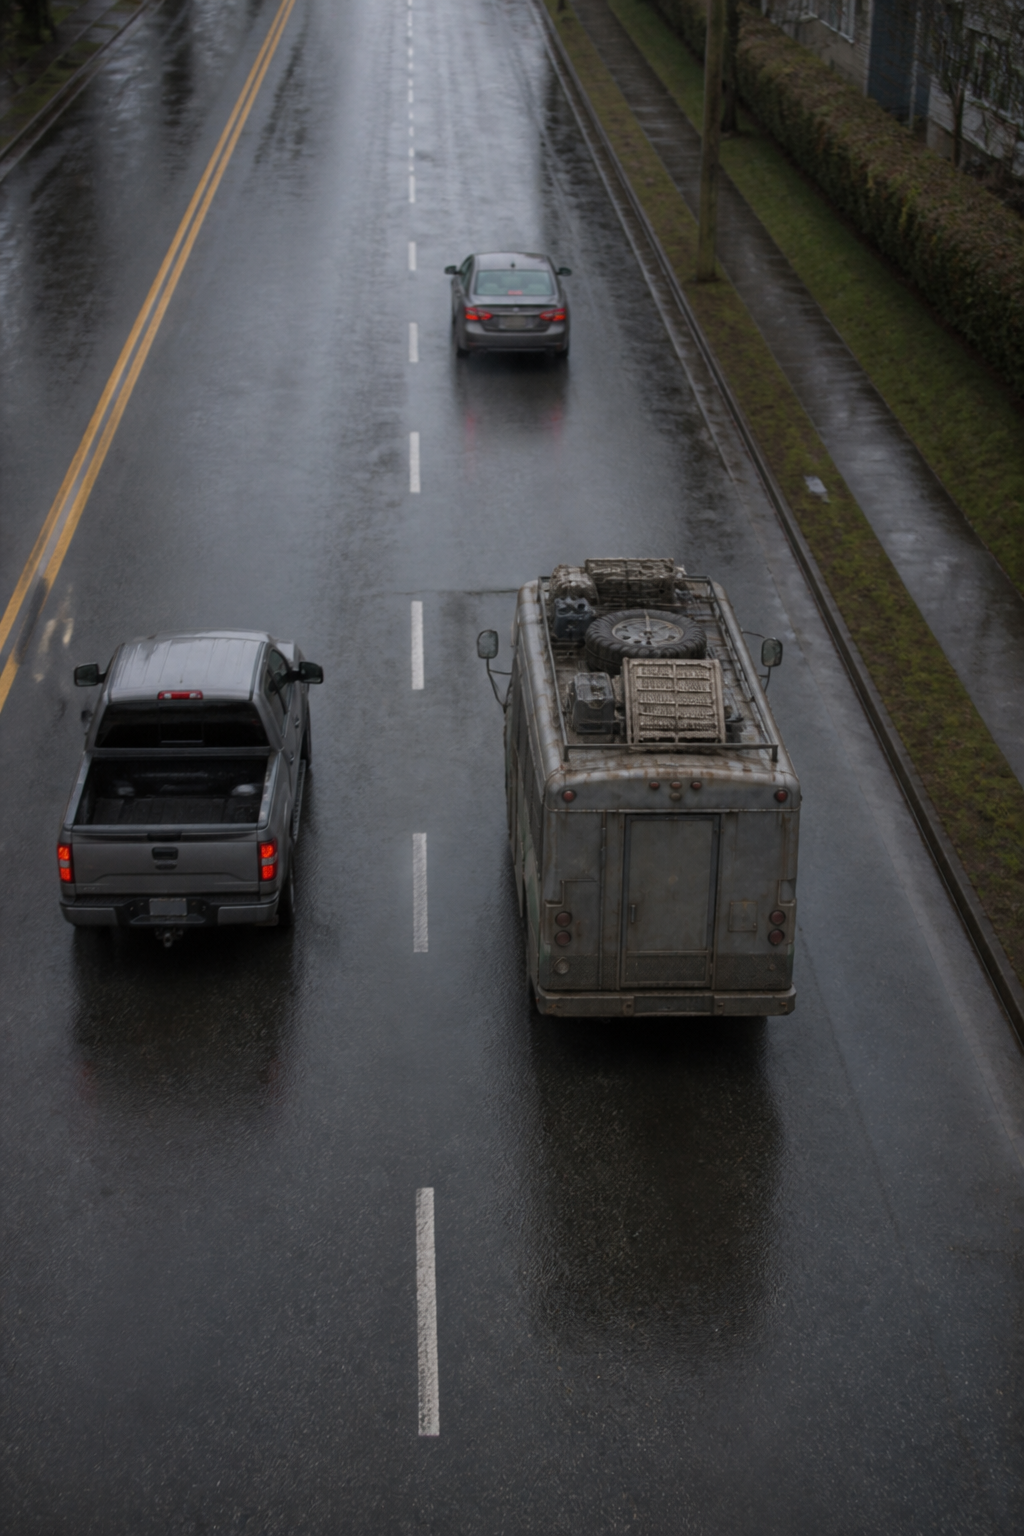
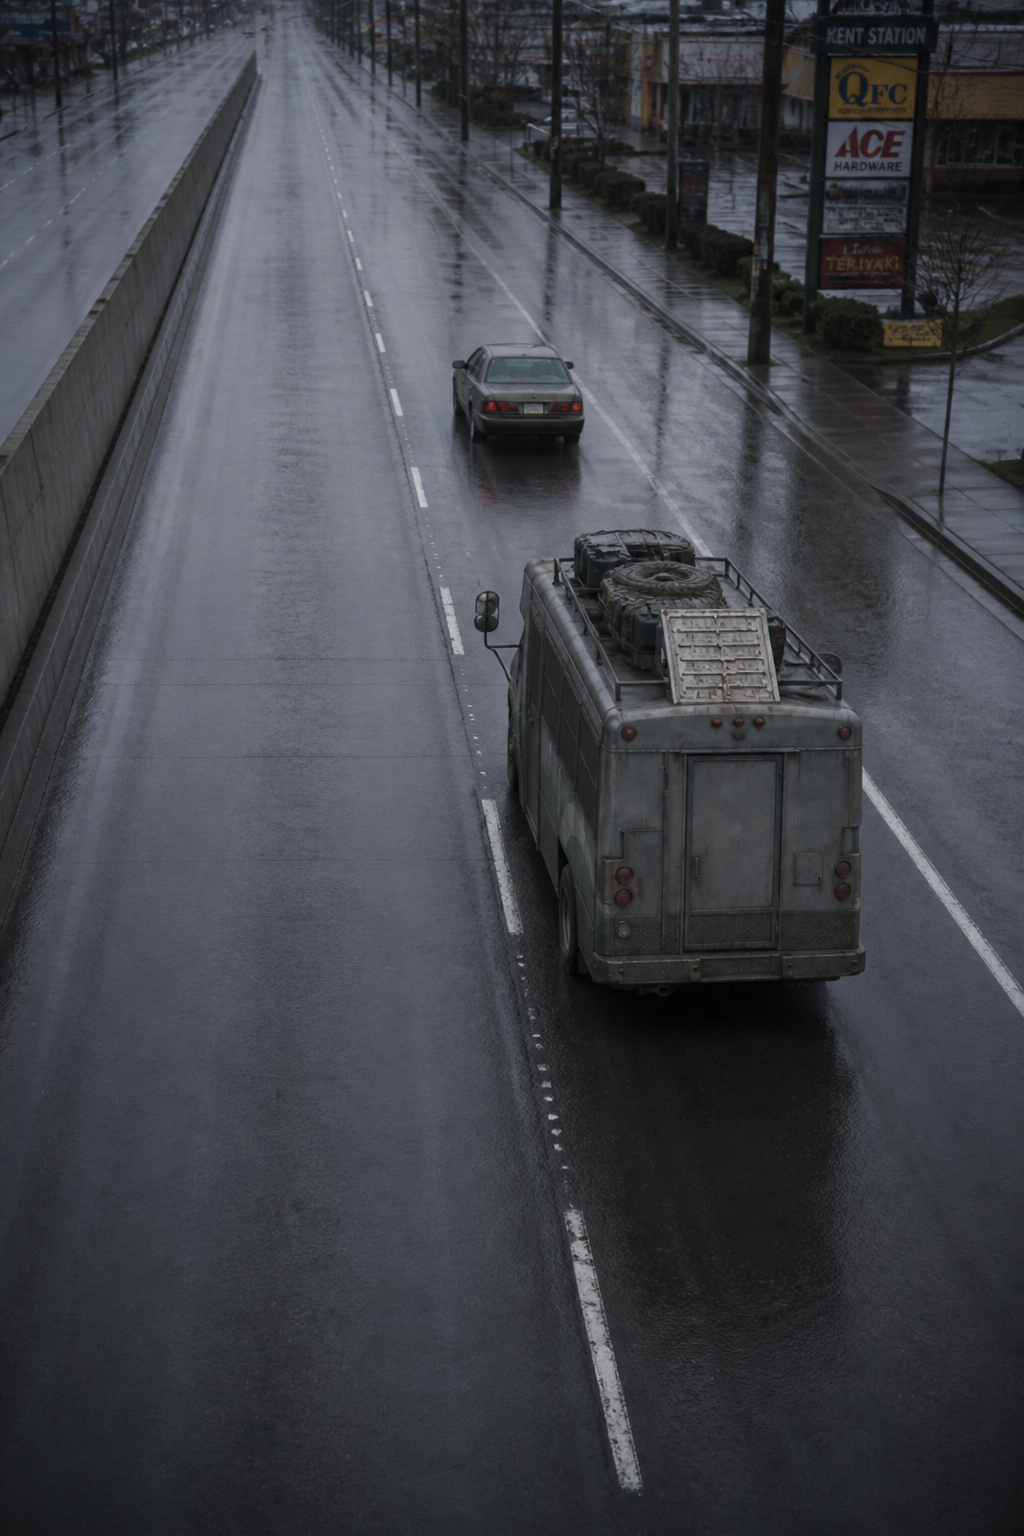
Rewrite III-002 and III-003 from the board notes, and set III-003 live to take 4.
Cat stays on the dash at 0 mph with no paw in the glass. The pass card now wants the left instead of already taking it.

diff --git a/src/game.js b/src/game.js
@@ -161,7 +161,7 @@ function sceneFragment(scene) {
 }
 
 function imageUrl(cardId) {
-  return "/api/run/image/" + encodeURIComponent(cardId) + "?v=a37";
+  return "/api/run/image/" + encodeURIComponent(cardId) + "?v=a38";
 }
 
 function cargoFrom(state) {
